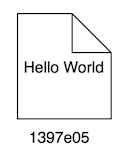
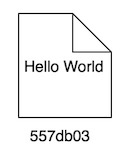
Cómo funciona Git (2)

Changed region(s): [[0.1231, 0.0789, 0.8615, 0.7895], [0.2154, 0.8158, 0.7077, 0.9474]]

diff --git a/_posts/2017-02-11-como-funciona-git-2.md b/_posts/2017-02-11-como-funciona-git-2.md
@@ -1,0 +1,236 @@
+---
+layout: post
+title: Cómo funciona Git (parte 2)
+description: Cómo funciona Git por dentro (segunda parte)
+permalink: 2017/02/como-funciona-git-2/
+tags:
+- git
+comments: true
+---
+
+En [el primer post de esta serie](/2017/01/como-funciona-git-1/) comenzamos a destripar el funcionamiento interno de Git, revisando los diferentes tipos de datos que Git soporta internamente. Si no lo habéis leído [deberíais empezar por ahí](/2017/01/como-funciona-git-1/).
+
+Dejamos nuestro repositorio en el siguiente estado:
+
+{% highlight text %}
+.
+└── hello.txt
+{% endhighlight %}
+
+Es decir, un directorio con un fichero `hello.txt`, fichero que contiene el texto "Hello World". Tras hacer nuestro primer commit y añadir un tag, nos quedó la siguiente estructura interna:
+
+![Git Blob](/public/pictures/git-internals/git-first-commit-tag.jpg)
+
+Seguiremos trabajando desde aquí.
+
+## Segundo commit
+
+Vamos a añadir una nueva carpeta `greetings`, que contendrá un fichero, `hello2.txt` con el mismo texto "Hello World":
+
+{% highlight text %}
+$ mkdir greetings
+
+$ cd greetings
+
+$ cp ../hello.txt .
+
+$ mv hello.txt hello2.txt
+
+$ cd ..
+
+$ tree
+.
+├── greetings
+│   └── hello2.txt
+└── hello.txt
+
+1 directory, 2 files
+
+$ git commit -m "Second commit"
+[master 284c288] Second commit
+ 1 file changed, 1 insertion(+)
+ create mode 100644 greetings/hello2.txt
+{% endhighlight %}
+
+Tras estas operaciones, nuestra carpeta `.git/objects` contiene ahora 7 objetos:
+
+{% highlight text %}
+├── objects
+│   ├── 04
+│   │   └── 50100369ff9e0b980dfc6ae42aaeb1de6890f6
+│   ├── 28
+│   │   └── 4c288acedfc52626386bbf134465f073cf2990
+│   ├── 4a
+│   │   └── f5100442a48dd4b8a53e4cb05b848d0336d8d7
+│   ├── 55
+│   │   └── 7db03de997c86a4a028e1ebd3a1ceb225be238
+│   ├── 97
+│   │   └── b49d4c943e3715fe30f141cc6f27a8548cee0e
+│   ├── d1
+│   │   └── ee121d5fe96b891ac0cc695498f31c0a4a7664
+│   ├── ee
+│   │   └── 6b307ad7ed6204ec4331aa38c04ea73b684287
+│   ├── info
+│   └── pack
+{% endhighlight %}
+
+Comparando con la versión anterior, tenemos tres nuevos objetos, vamos a revisarlos de forma individual, y comprobar cómo ha quedado la estructura en forma de árbol.
+
+`284c28`, es el objeto que contiene la información del segundo commit:
+
+{% highlight text %}
+$ git cat-file -t 284c28
+commit
+
+$ git cat-file -p 284c28
+tree ee6b307ad7ed6204ec4331aa38c04ea73b684287
+parent d1ee121d5fe96b891ac0cc695498f31c0a4a7664
+author RaulAvila <xxxxx@gmail.com> 1486816422 +0000
+committer RaulAvila <xxxxx@gmail.com> 1486816422 +0000
+
+Second commit
+{% endhighlight %}
+
+Este commit se diferencia del primero en que tiene un parent, `d1ee12`, que no es más que el primer commit. Esta es la forma en que Git controla el histórico enlazando commit sucesivos. También vemos que nuestro commit referencia a un nuevo tree, `ee6b30`, el segundo objeto añadido con este commit:
+
+{% highlight text %}
+$ git cat-file -t ee6b30
+tree
+
+$ git cat-file -p ee6b30
+040000 tree 4af5100442a48dd4b8a53e4cb05b848d0336d8d7	greetings
+100644 blob 557db03de997c86a4a028e1ebd3a1ceb225be238	hello.txt
+{% endhighlight %}
+
+Este objeto tree es el nuevo root de nuestro proyecto. Vemos que este root ahora contiene el fichero `hello.txt`, que no ha cambiado respecto al primer commit, por lo que sigue estando contenido en el objecto `557db0`, y la nueva carpeta, que está almacenada en git como un nuevo objeto tree, `4af510`:
+
+{% highlight text %}
+$ git cat-file -t 4af510
+tree
+
+$ git cat-file -p 4af510
+100644 blob 557db03de997c86a4a028e1ebd3a1ceb225be238	hello2.txt
+{% endhighlight %}
+
+El contenido de la carpeta es un puntero al contenido (blob) del nuevo fichero, de nombre `hello2.txt`. ¿Notáis algo llamativo? En efecto, el hash al que apunta este tree es también `557db0`, esto es así porque ambos ficheros contienen la misma información, de forma que el hash calculado es idéntico.
+
+Con todo esto, veamos cómo queda nuestro árbol de objetos:
+
+![Git Blob](/public/pictures/git-internals/git-second-commit.jpg)
+
+Este va a ser el diagrama más complicado que veremos en la serie, y espero que más o menos haya quedado claro. Git intenta reutilizar toda la información que sea posible al añadir nuevos commits, y así, el blob "Hello World" es apuntado desde tres lugares diferentes (el fichero del primer commit, el mismo fichero del segundo, y el nuevo fichero del segundo). De esta forma se minimiza la cantidad de datos creados por cada cambio. Además, las carpetas `info` y `pack` se utilizan en procesos de compresión que no cubriremos aquí (para empezar, porque no los conozco todavía :)).
+
+A continuación veremos una de las funcionalidades más potentes de Git, y os asombraréis de lo sencilla que es su implementación.
+
+## Ramas
+
+Para comprender bien el funcionamiento de las ramas (branches) en Git, vamos a simplificar el diagrama de la estructura que hemos ido creando, y nos quedaremos únicamente con los commits:
+
+![Git Blob](/public/pictures/git-internals/git-commit-history-1.jpg)
+
+Todos sabemos que cuando iniciamos un proyecto Git, este nos crea con nuestro primer commit una única rama de nombre `master`. Internamente, una rama es algo tan tonto como un pequeño ficherito que apunta a un commit, ni más ni menos, es decir, un alias:
+
+{% highlight text %}
+$ cat .git/refs/heads/master
+284c288acedfc52626386bbf134465f073cf2990
+{% endhighlight %}
+
+Como véis, el contenido de este fichero es el hash del último commit que hemos realizado:
+
+![Git Blob](/public/pictures/git-internals/git-master.jpg)
+
+La gran diferencia entre tags y ramas es que los tags son inmutables, mientras que las ramas están "vivas", avanzando con cada commit añadido a la historia.
+
+Vamos a crear una nueva rama apuntando al mismo commit:
+
+{% highlight text %}
+$ git branch develop
+
+$ cat .git/refs/heads/develop
+284c288acedfc52626386bbf134465f073cf2990
+{% endhighlight %}
+
+Sin demasiadas sorpresas, la nueva rama apunta al commit en que nos encontramos, coincidendo con `master`, es decir:
+
+![Git Blob](/public/pictures/git-internals/git-master-develop.jpg)
+
+La pregunta aquí es qué rama será la que avanzará si añadimos un nuevo commit, veámoslo en vivo:
+
+{% highlight text %}
+$ echo "Goodbye" > goodbye.txt
+
+$ git add .
+
+$ git commit -m "Third commit"
+[master aa90e47] Third commit
+ 1 file changed, 1 insertion(+)
+ create mode 100644 goodbye.txt
+
+$ cat .git/refs/heads/master
+aa90e471ababde242281c833fffea255f69dd28a
+
+$ cat .git/refs/heads/develop
+284c288acedfc52626386bbf134465f073cf2990
+
+$ git branch
+  develop
+* master
+
+{% endhighlight %}
+
+En efecto, seguimos en `master`, porque `git branch` tan solo crea una rama en el actual commit sin ponerla como rama activa. Para conseguir esto deberíamos hacer:
+
+{% highlight text %}
+$ git checkout develop
+Switched to branch 'develop'
+
+$ git branch
+* develop
+  master
+{% endhighlight %}
+
+Ahora sí, nuestra rama activa es develop, y si añadimos un nuevo commit no será asociado a master hasta que realicemos un merge o un rebase (volveremos sobre esto en el siguiente post). Como alternativa, podríamos crear una nueva rama y movernos a ella en un paso con `git checkout -b rama`.
+
+¿Cómo almacena Git la información de la rama activa? Pues muy sencillo, en el fichero `.git/HEAD`, que en realidad no es más que un fichero de texto apuntando al lugar en que nos encontramos dentro del histórico (es decir, un puntero a un puntero). De hecho este fichero no tiene por qué apuntar a una rama, puede hacerlo a un commit determinado si hacemos un `git checkout <hash>`, lo que se conoce como "detached HEAD". Veamos varios ejemplos de esto:
+
+{% highlight text %}
+$ git branch
+* develop
+  master
+
+$ cat .git/HEAD
+ref: refs/heads/develop
+
+$ git checkout master
+Switched to branch 'master'
+
+$ cat .git/HEAD
+ref: refs/heads/master
+
+$ git checkout aa90e47
+Note: checking out 'aa90e47'.
+
+You are in 'detached HEAD' state. You can look around, make experimental
+changes and commit them, and you can discard any commits you make in this
+state without impacting any branches by performing another checkout.
+
+If you want to create a new branch to retain commits you create, you may
+do so (now or later) by using -b with the checkout command again. Example:
+
+  git checkout -b <new-branch-name>
+
+HEAD is now at aa90e47... Third commit
+
+$ cat .git/HEAD
+aa90e471ababde242281c833fffea255f69dd28a
+
+$ git checkout develop
+Previous HEAD position was aa90e47... Third commit
+Switched to branch 'develop'
+{% endhighlight %}
+
+Tras este mareo, este es la instantánea de nuestro histórico:
+
+![Git Blob](/public/pictures/git-internals/git-head.jpg)
+
+Lo dejamos aquí por hoy. En el último post de la serie veremos cómo funcionan `merge` y `rebase`, y finalizaremos con la sincronización con repositorios remotos.

diff --git a/_posts/2017-01-22-como-funciona-git-1.md b/_posts/2017-01-22-como-funciona-git-1.md
@@ -262,4 +262,4 @@ Con esto, actualicemos nuestro diagrama:
 
 ![Git Blob](/public/pictures/git-internals/git-first-commit-tag.jpg)
 
-Terminamos esta primera entrega sobre el funcionamiento interno de Git. En la siguiente veremos cómo Git añade nuevos commits al histórico, revisaremos los tipos de datos durante el proceso, y veremos cómo se realiza la gestion de ramas.
+Terminamos esta primera entrega sobre el funcionamiento interno de Git. [En la siguiente](/2017/02/como-funciona-git-2/) veremos cómo Git añade nuevos commits al histórico, revisaremos los tipos de datos durante el proceso, y veremos cómo se realiza la gestion de ramas.
